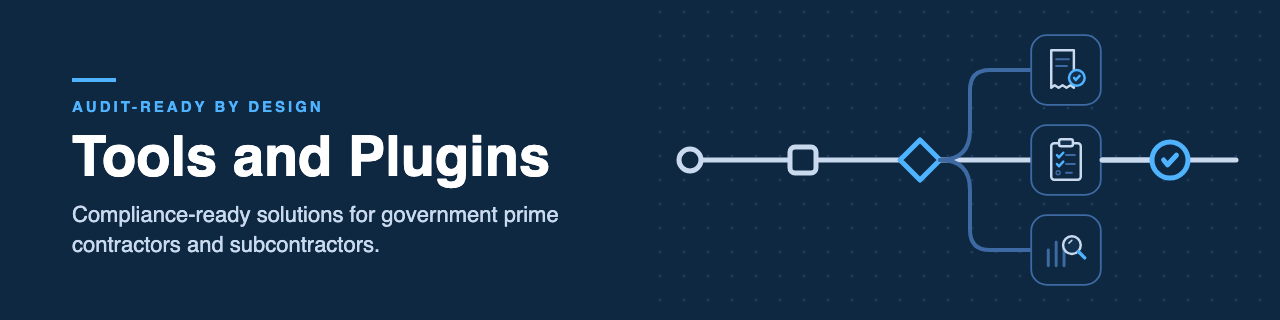
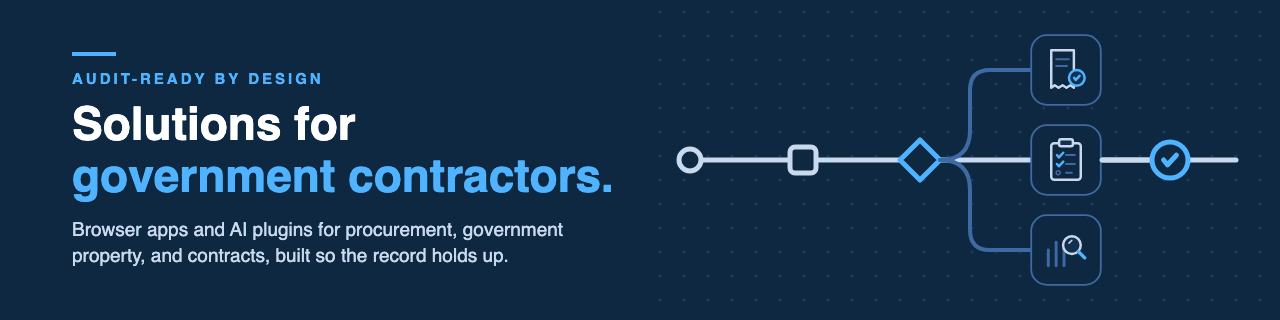
Align site and README with solutions naming
Replace the outdated README banner and alt text from the graphics handoff, and update the visible site wordmark to Solutions.

Changed region(s): [[0.0312, 0.3125, 0.5, 0.8438], [0.0625, 0.2188, 0.25, 0.2812], [0.0625, 0.1562, 0.0938, 0.1875]]

diff --git a/index.html b/index.html
@@ -21,9 +21,9 @@
   <a class="skip-link" href="#main">Skip to content</a>
   <header class="site-header">
     <div class="wrap header-inner">
-      <a class="wordmark" href="#top" aria-label="Courtney Chapman tools home">
+      <a class="wordmark" href="#top" aria-label="Courtney Chapman solutions home">
         <span class="wordmark-mark" aria-hidden="true">C</span>
-        <span>Courtney Chapman<span class="wordmark-sub">Tools &amp; Plugins</span></span>
+        <span>Courtney Chapman<span class="wordmark-sub">Solutions</span></span>
       </a>
       <nav aria-label="Main navigation">
         <a href="#collections">Collections</a>

diff --git a/README.md b/README.md
@@ -1,4 +1,4 @@
-<img src="docs/readme/readme_header.png" alt="Tools and Plugins: audit-ready by design. Compliance-ready solutions for government prime contractors and subcontractors." width="100%">
+<img src="docs/readme/readme_header.png" alt="Audit-ready by design. Solutions for government contractors: browser apps and AI plugins for procurement, government property, and contracts, built so the record holds up." width="100%">
 
 **Browse the solutions website:** [courtney-chapman.github.io/tools-public](https://courtney-chapman.github.io/tools-public/)
 
